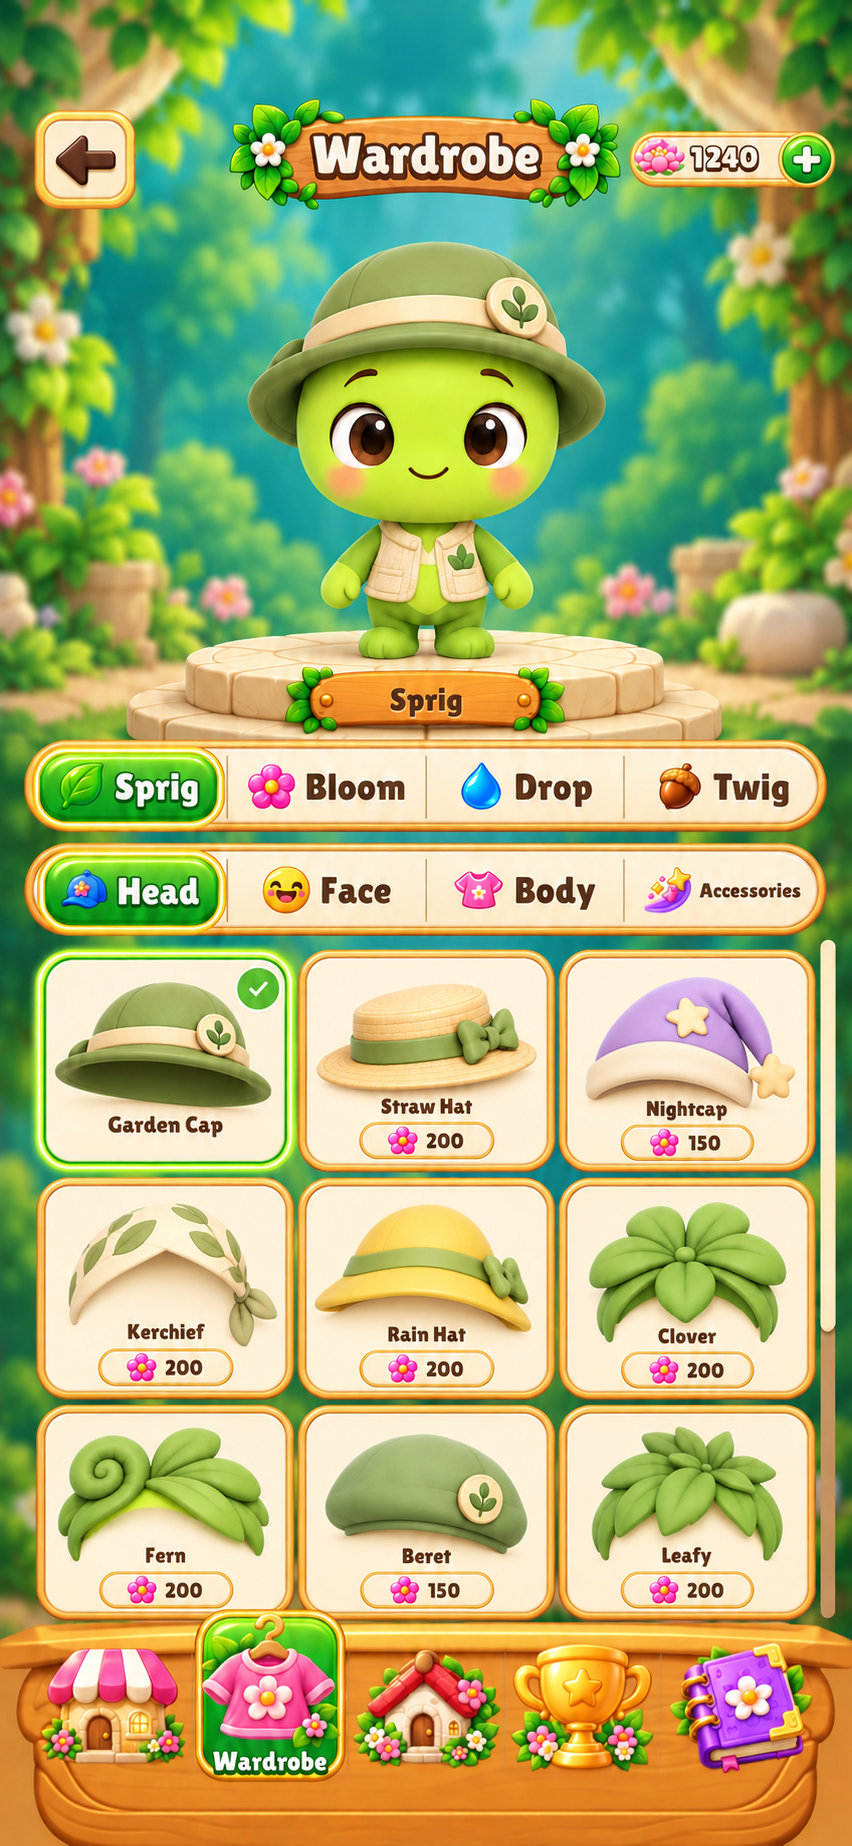
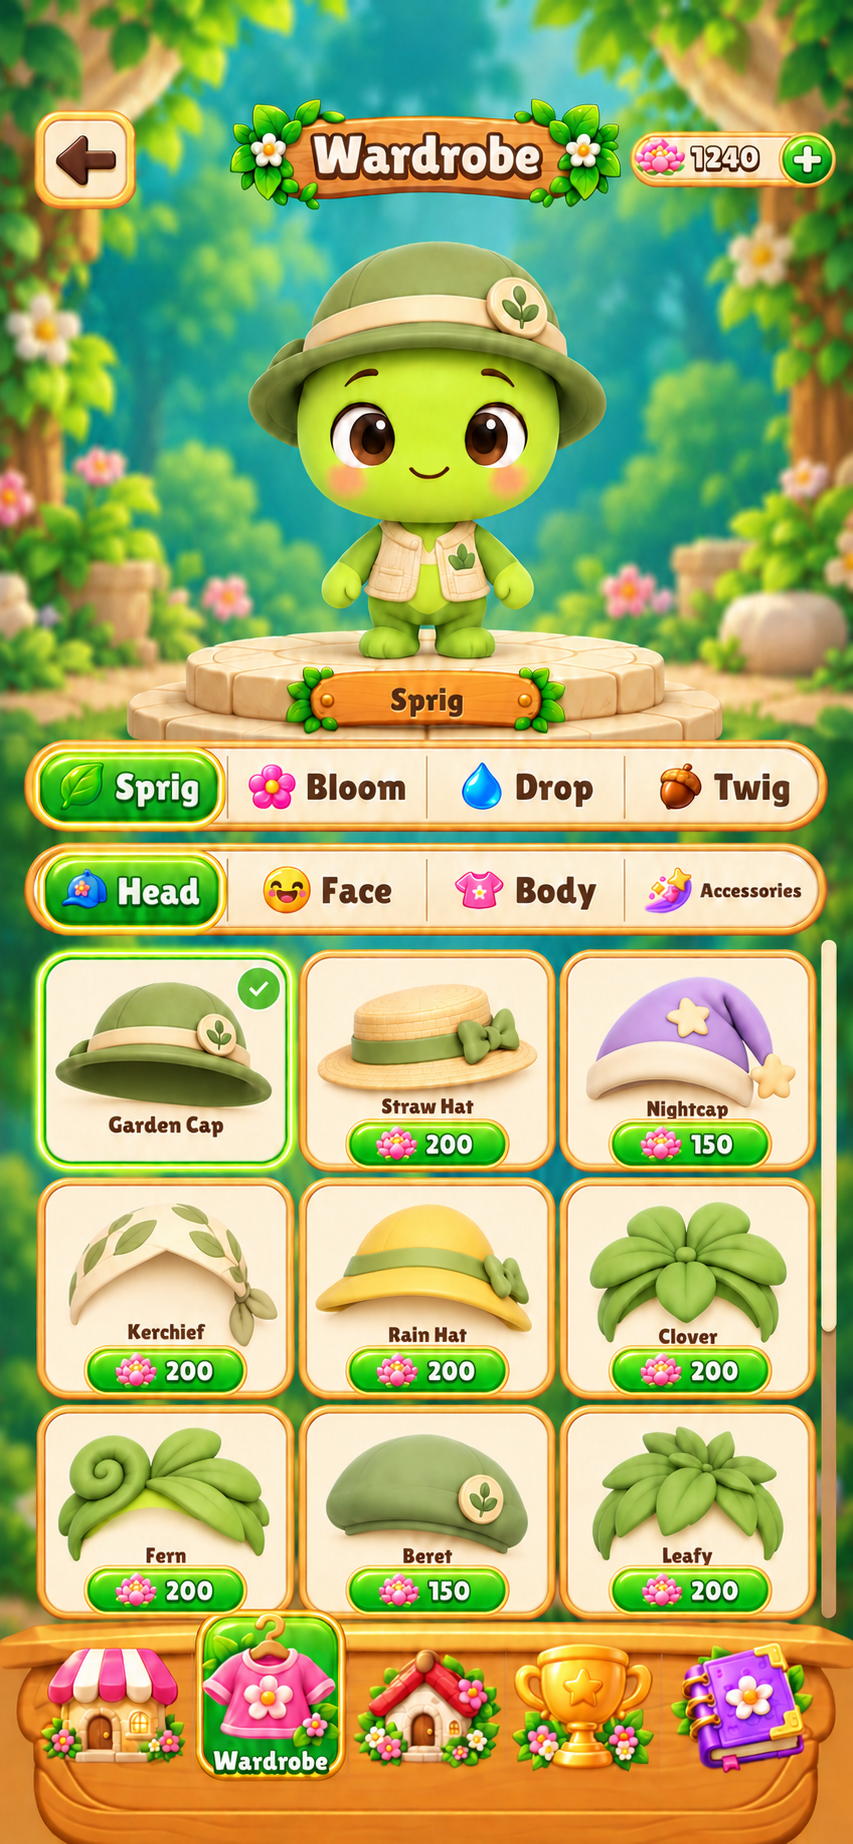
Correct Wardrobe concept purchase buttons and petal currency

diff --git a/product/previews/wardrobe-layout-concepts-v1/README.md b/product/previews/wardrobe-layout-concepts-v1/README.md
@@ -27,3 +27,5 @@
 ## A3 — сетка 3×3
 
 По просьбе владельца: тот же крупный герой, стенд и фильтры, каталог из трёх колонок и трёх видимых рядов. Карточки показывают только вещи, поэтому девять вариантов можно сравнивать без маленьких героев и полок. Файл: `A3-fixed-three-column.png`. Это дополнительный концепт для выбора, не изменение игры.
+
+Уточнение A3: кнопки покупки зелёные, валюта — настоящая иконка петалей/лотоса из игры (в кнопках и верхнем балансе). Цветок семейства Bloom остаётся только значком героя.
